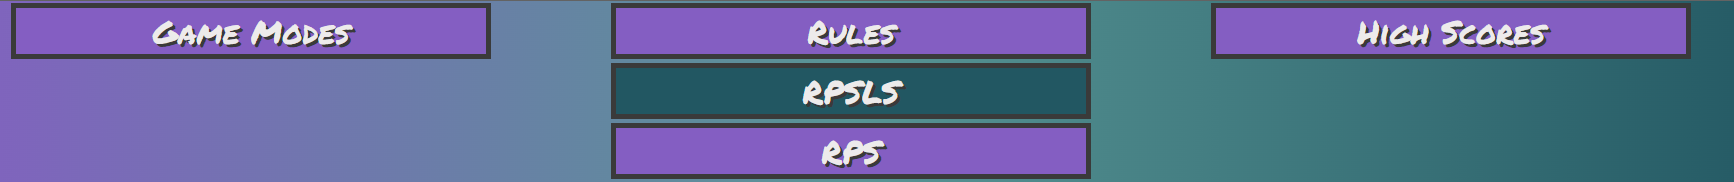
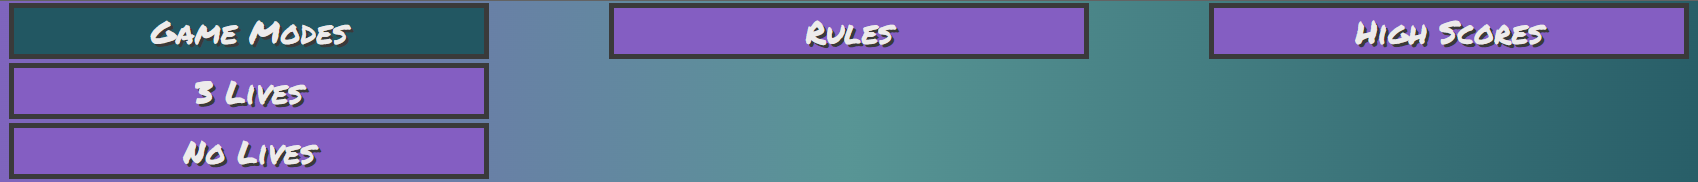
Add media files and improve pop window styling for mobile screen sizes

diff --git a/index.html b/index.html
@@ -9,7 +9,7 @@
     <meta name="keywords" content="rock, paper, scissors, lizard, spock, rps game, rpsls game">
 
     <link rel="stylesheet" href="assets/css/style.css">
-    <link rel='shortcut icon' type='image/x-icon' href='favicon.ico'/>
+    <link rel='shortcut icon' type='image/x-icon' href='favicon.ico' />
     <title>Rock, Paper, Scissors, Lizard, Spock Game</title>
 </head>
 
@@ -21,23 +21,15 @@
                     <button id="modes" class="menu-button"> Game Modes </button>
                     <div class="dropdown-content" id="game-drop-content">
                         <div>
-                            <button id="rpsls-mode">RPSLS</button>
+                            <button id="rpsls-mode">3 Lives</button>
                         </div>
                         <div>
-                            <button id="rps-mode">RPS</button>
+                            <button id="no-lives-mode">No Lives</button>
                         </div>
                     </div>
                 </li>
                 <li class="menu-button">
                     <button id="rules" class="menu-button"> Rules </button>
-                    <div class="dropdown-content" id="rules-drop-content">
-                        <div>
-                            <button class="rpsls-rules-area" id="rpsls-rules">RPSLS</button>
-                        </div>
-                        <div>
-                            <button id="rps-rules">RPS</button>
-                        </div>
-                    </div>
                 </li>
                 <li>
                     <button id="high-scores"> High Scores </button>
@@ -82,7 +74,6 @@
                 </tr>
             </table>
         </div>
-        <div class="pop-window" id="rps-rules-window"></div>
         <div class="pop-window" id="game-over-window">
             <h2>You scored:</h2>
             <h3>Great job!</h3>
@@ -91,31 +82,9 @@
         <div class="pop-window" id="high-scores-window">
             <div class="scores-category">
                 <div class="score-heading">
-                    <p>RPSLS Scores</p>
+                    <p>High Scores</p>
                 </div>
                 <table id="rpsls-score-table">
-                    <tr>
-                        <td class="table-category">1st</td>
-                        <td>DDBC</td>
-                        <td>15</td>
-                    </tr>
-                    <tr>
-                        <td class="table-category">2nd</td>
-                        <td>TREE</td>
-                        <td>12</td>
-                    </tr>
-                    <tr>
-                        <td class="table-category">3rd</td>
-                        <td>MERT</td>
-                        <td>9</td>
-                    </tr>
-                </table>
-            </div>
-            <div id="rps-scores" class="scores-category">
-                <div class="score-heading">
-                    <p>RPS Scores</p>
-                </div>
-                <table id="rps-score-table">
                     <tr>
                         <td class="table-category">1st</td>
                         <td>DDBC</td>
@@ -139,35 +108,35 @@
         <!-- rock paper scissors lizard spock game -->
         <div id="rpsls-selection">
             <button data-type="rock-selector" class="rpsls-selector">
-            <figure>
-                <img src="assets/images/rock.jpg" alt="icon for rock">
-                <figcaption>Rock</figcaption>
-            </figure>
-        </button>
-        <button data-type="paper-selector" class="rpsls-selector">
-            <figure>
-                <img src="assets/images/paper.jpg" alt="icon for paper">
-                <figcaption>Paper</figcaption>
-            </figure>
-        </button>
-        <button data-type="scissors-selector" class="rpsls-selector">
-            <figure>
-                <img src="assets/images/scissors.jpg" alt="icon for scissors">
-                <figcaption>Scissors</figcaption>
-            </figure>
-        </button>
-        <button data-type="lizard-selector" class="rpsls-selector">
-            <figure>
-                <img src="assets/images/lizard.jpg" alt="icon for lizard">
-                <figcaption>Lizard</figcaption>
-            </figure>
-        </button>
-        <button data-type="spock-selector" class="rpsls-selector">
-            <figure>
-                <img src="assets/images/spock.jpg" alt="icon for Spock">
-                <figcaption>Spock</figcaption>
-            </figure>
-        </button>
+                <figure>
+                    <img src="assets/images/rock.jpg" alt="icon for rock">
+                    <figcaption>Rock</figcaption>
+                </figure>
+            </button>
+            <button data-type="paper-selector" class="rpsls-selector">
+                <figure>
+                    <img src="assets/images/paper.jpg" alt="icon for paper">
+                    <figcaption>Paper</figcaption>
+                </figure>
+            </button>
+            <button data-type="scissors-selector" class="rpsls-selector">
+                <figure>
+                    <img src="assets/images/scissors.jpg" alt="icon for scissors">
+                    <figcaption>Scissors</figcaption>
+                </figure>
+            </button>
+            <button data-type="lizard-selector" class="rpsls-selector">
+                <figure>
+                    <img src="assets/images/lizard.jpg" alt="icon for lizard">
+                    <figcaption>Lizard</figcaption>
+                </figure>
+            </button>
+            <button data-type="spock-selector" class="rpsls-selector">
+                <figure>
+                    <img src="assets/images/spock.jpg" alt="icon for Spock">
+                    <figcaption>Spock</figcaption>
+                </figure>
+            </button>
         </div>
         <div id="selections">
             <figure id="player-selection" class="choice-container">

diff --git a/assets/js/script.js b/assets/js/script.js
@@ -17,18 +17,6 @@ window.addEventListener("click", function dropDowns(event) {
         }
     }
 
-    // rules dropdown show or hide
-    const rulesList = document.getElementById("rules-drop-content");
-    const rulesButton = document.getElementById("rules");
-
-    if (event.target === rulesButton) {
-        if (rulesList.style.display !== "block") {
-            rulesList.style.display = "block";
-        }
-    } else if (event.target !== rulesButton) {
-        rulesList.style.display = "none";
-    }
-
     // modes dropdown show or hide
     const gameModeList = document.getElementById("game-drop-content");
     const modesButton = document.getElementById("modes");
@@ -42,7 +30,7 @@ window.addEventListener("click", function dropDowns(event) {
     }
 
     // rpsls rules window show or hide
-    const rpslsRules = document.getElementById("rpsls-rules");
+    const rpslsRules = document.getElementById("rules");
     const rpslsRulesWindow = document.getElementById("rpsls-rules-window");
 
     if (event.target === rpslsRules) {
@@ -97,27 +85,27 @@ function playerSelection() {
             if (this.getAttribute("data-type") === "rock-selector") {
                 playerSelected.innerHTML = `<img src="assets/images/rock.jpg" alt="icon for rock">
                 <figcaption>Ready to rock them?</figcaption>
-                <button tabindex="0" id="player-confirm">Confirm choice</button>`;
+                <button id="player-confirm">Confirm choice</button>`;
                 playerPick = "rock";
             } else if (this.getAttribute("data-type") === "paper-selector") {
                 playerSelected.innerHTML = `<img src="assets/images/paper.jpg" alt="icon for paper">
                 <figcaption>Ready to wrap this up?</figcaption>
-                <button tabindex="0" id="player-confirm">Confirm choice</button>`;
+                <button id="player-confirm">Confirm choice</button>`;
                 playerPick = "paper";
             } else if (this.getAttribute("data-type") === "scissors-selector") {
                 playerSelected.innerHTML = `<img src="assets/images/scissors.jpg" alt="icon for scissors">
                 <figcaption>Will you make the cut?</figcaption>
-                <button tabindex="0" id="player-confirm">Confirm choice</button>`;
+                <button id="player-confirm">Confirm choice</button>`;
                 playerPick = "scissors";
             } else if (this.getAttribute("data-type") === "lizard-selector") {
                 playerSelected.innerHTML = `<img src="assets/images/lizard.jpg" alt="icon for lizard">
                 <figcaption>Ready to gecko-ing?</figcaption>
-                <button tabindex="0" id="player-confirm">Confirm choice</button>`;
+                <button id="player-confirm">Confirm choice</button>`;
                 playerPick = "lizard";
             } else if (this.getAttribute("data-type") === "spock-selector") {
                 playerSelected.innerHTML = `<img src="assets/images/spock.jpg" alt="icon for Spock">
                 <figcaption>Ready to Trek out?</figcaption>
-                <button tabindex="0" id="player-confirm">Confirm choice</button>`;
+                <button id="player-confirm">Confirm choice</button>`;
                 playerPick = "spock";
             }
             playerSelected.setAttribute("data-type", playerPick);
@@ -433,9 +421,9 @@ function highScore() {
         document.getElementById("game-over-window").innerHTML = `<h2>You scored: ${endScore}</h2>
         <h3>New High Score!</h3>
         <label>Enter Name</label>
-        <input tabindex="0" type="text" name="new-score-name" maxlength="4" id="new-score-name">
-        <button tabindex="0" class="game-over-button" id="submit-score">Submit</button>
-        <button tabindex="0" style="display: none;" class="game-over-button" id="new-game">Play again?</button>`;
+        <input type="text" name="new-score-name" maxlength="4" id="new-score-name">
+        <button class="game-over-button" id="submit-score">Submit</button>
+        <button style="display: none;" class="game-over-button" id="new-game">Play again?</button>`;
 
         document.getElementById("submit-score").addEventListener("click", function () {
             updateScore();

diff --git a/assets/css/style.css b/assets/css/style.css
@@ -172,10 +172,6 @@ h3 {
     text-shadow: 0.1875rem 0.1875rem #3a3a3a;
 }
 
-#lives-left {
-    margin-top: 0.5rem;
-}
-
 #lives-boxes {
     display: flex;
     align-items: center;
@@ -306,9 +302,7 @@ input {
 
 #high-scores-window {
     display: none;
-    justify-content: space-evenly;
-    flex-wrap: wrap;
-    align-content: center;
+    margin: 0 auto;
 }
 
 .scores-category {
@@ -615,10 +609,6 @@ input {
         font-size: 0.8rem;
         height: 1.25rem;
         border: 0.225rem solid #3a3a3a;
-    }
-
-    #high-scores-window {
-        align-content: initial;
     }
 
     #high-scores-window p {

diff --git a/README.md b/README.md
@@ -14,7 +14,8 @@ This site features an adapative layout based on the user's screen size, 2 differ
 
 - __Menu Bar__
 
-  - The menu bar allows the user to navigate between different game modes, review rules for each mode and display the current high scores for both game mode using a drop-down style display with a hover visual effect and creates a pop out window for the selected choice.
+  - The menu bar allows the user to navigate between different game modes, review the rules for the game display the current high scores for using a drop-down style display with a hover visual effect and creates a pop out window for the selected choice.
+
   - This section allows for simple access to information without the need to redirect to multiple pages.
 
 ![Menu Bar](/assets/media/menu_bar.png)
@@ -28,21 +29,13 @@ This site features an adapative layout based on the user's screen size, 2 differ
 
 - __High Scores__
 
-  - This pop up window allows the user to check the top 3 scores for each game mode and has prepopulated information which is replaced once the user achieves a high score. This window is hidden once the user clicks anywhere on the screen.
+  - This pop up window allows the user to check the top 3 scores and has prepopulated information which is replaced once the user achieves a high score. This window is hidden once the user clicks anywhere on the screen.
 
   - This gives the user a goal to aim for and a sense of achievement for any high scores attained.
 
 ![High Scores](/assets/media/high_scores.png)
 
 #### __Game Area__
-
-- __Game Title__
-
-  - The game title clearly states the current game mode being played to the user and updates based on the player's selection.
-
-  - This section helps reaffirm the player's choice of game mode.
-
-![Game Title](/assets/media/game_title.png)
 
 - __Player Round Selection__
 
@@ -86,7 +79,7 @@ This site features an adapative layout based on the user's screen size, 2 differ
 
 ### Features Left to Implement
 
- - Add an 'unlimited lives' mode.
+ - Add rock paper scissors mode.
 
  - Add music and sound effects with the option to be toggled off.
 
@@ -96,7 +89,13 @@ This site features an adapative layout based on the user's screen size, 2 differ
 
 This site has been tested on a large screen desktop device, laptop and mobile device with no evident errors appearing for visual or functional purposes. 
 
-This site features multiple header buttons that will change appearance when hovered or focused
+This site features multiple header buttons and a drop down menu that will change appearance when hovered or focused and either show or hide pop up windows based on the user's interaction. These have all been found to be fully functional at all tested screen sizes without any evident errors.
+
+The game functionality includes showing, hiding or updating elements through scripts which are all operating as intended and is able to correctly track scores to compare against the existing high scores.
+
+This site has additionally been tested through Chrome's inspection tools to identify breakpoints on various viewing sizes and run through the Google Lighthouse testing system for both desktop and mobile.
+
+![Google Lighthouse Results](/assets/media/lighthouse.png)
 
 ### Validator Testing
 
@@ -106,10 +105,29 @@ This site features multiple header buttons that will change appearance when hove
   - No errors were found when passing through the official [(Jigsaw) validator](https://jigsaw.w3.org/css-validator/validator?uri=https%3A%2F%2Fddbc23.github.io%2FRPSLS-Game%2F&profile=css3svg&usermedium=all&warning=1&vextwarning=&lang=en)
 - JavaScript
   - No errors were found when passing through the official [Jshint validator](https://jshint.com/)
-    - __The following metrics were returned__
+  - The following metrics were returned
     - There are 27 functions in this file.
     - Function with the largest signature take 1 arguments, while the median is 0.
     - Largest function has 43 statements in it, while the median is 4.
     - The most complex function has a cyclomatic complexity value of 29 while the median is 1.
-    - __The following warnings were returned__
-    - 95: Functions declared within loops referencing an outer scoped variable may lead to confusing semantics. (roundStart)
+  - The following warnings were returned
+    - Functions declared within loops referencing an outer scoped variable may lead to confusing semantics. (roundStart)
+
+## Deployment
+
+- The site was deployed to GitHub pages. The steps to deploy are as follows:
+ - In the GitHub repository, navigate to the Settings tab
+ - From the General section, navigate to 'Pages' under the Code and automation heading
+ - Select Main from the drop-down Branch menu and press save
+ - Once saved the page will be refreshed and advise that the site is ready to be deployed and provide a URL for the page
+ - Refresh this page after a few minutes and a green background and confirmation tick will advise the site has been deployed successfully.
+
+ ## Credits
+
+ ### Code
+
+ - setTimeout code guidance provided by [Jessica Wilkins](https://www.freecodecamp.org/news/javascript-settimeout-js-timer-to-delay-n-seconds/)
+
+ ### Media
+
+ - Game icons provided by [Icon Library](https://icon-library.com/)
